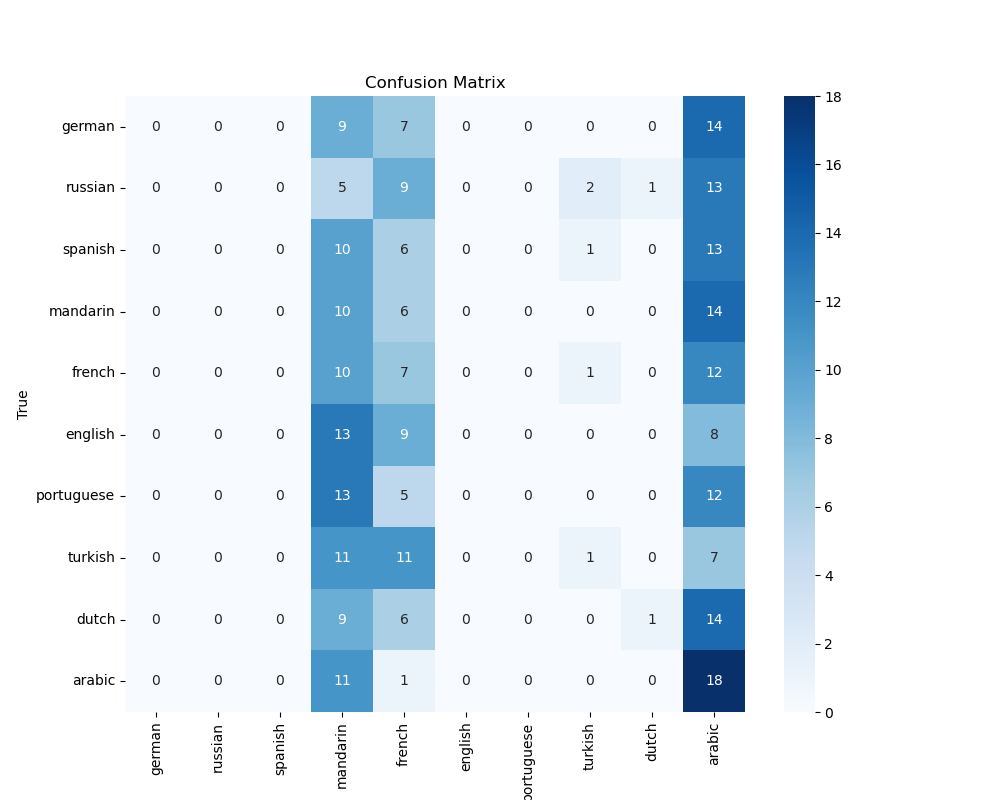
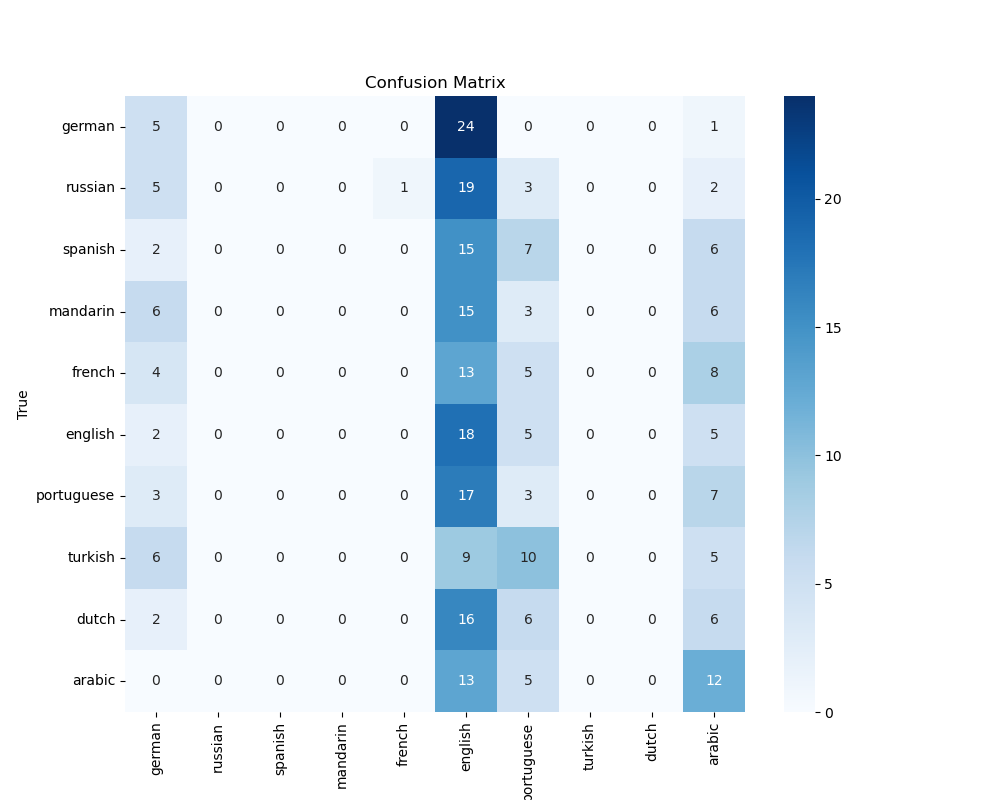
change to cnn3, making the model light

diff --git a/prepare_accent_dataset.py b/prepare_accent_dataset.py
@@ -136,71 +136,6 @@ def process_accent_dataset(accent_dataset_dir, output_dir, target_sr=16000, num_
     data = [result for result in results if result is not None]
     return pd.DataFrame(data)
 
-# def process_accent_dataset(accent_dataset_dir, output_dir, target_sr=16000):
-#     """
-#     Process a generic accent dataset with the following structure:
-#     accent_dataset_dir/
-#         accent_a1.mp3
-#         accent_a2.mp3
-#         accent_b1.mp3
-#             ...
-    
-#     Args:
-#         accent_dataset_dir: Path to accent dataset
-#         output_dir: Where to save processed files
-#         target_sr: Target sample rate
-    
-#     Returns:
-#         DataFrame with file paths and accent information
-#     """
-#     print(f"Processing accent dataset from {accent_dataset_dir}")
-    
-#     os.makedirs(output_dir, exist_ok=True)
-#     data = []
-    
-#     for audio_file in tqdm(os.listdir(accent_dataset_dir), desc="Processing input", smoothing=.05):
-#         accent = re.match(r"([a-zA-Z]+)\d+\.(?:mp3|wav|flac)", audio_file)
-#         if accent is None:
-#             continue
-
-#         accent = accent.group(1)
-#         file_name = os.path.splitext(os.path.basename(audio_file))
-
-#         try:
-#             audio_path = os.path.join(accent_dataset_dir, audio_file)
-            
-#             # Load audio
-#             waveform, sample_rate = torchaudio.load(audio_path)
-            
-#             # Convert to mono if stereo
-#             if waveform.shape[0] > 1:
-#                 waveform = torch.mean(waveform, dim=0, keepdim=True)
-            
-#             # Resample if necessary
-#             if sample_rate != target_sr:
-#                 resampler = torchaudio.transforms.Resample(sample_rate, target_sr)
-#                 waveform = resampler(waveform)
-
-#             # Clip Silence
-#             waveform = torchaudio.functional.vad(waveform, sample_rate)
-            
-#             # Save processed audio
-#             output_filename = f"{file_name[0]}.wav"
-#             output_path = os.path.join(output_dir, output_filename)
-#             torchaudio.save(output_path, waveform, target_sr)
-            
-#             # Add to data
-#             data.append({
-#                 "file_path": output_path,
-#                 "accent": accent,
-#                 "duration": waveform.shape[1] / target_sr,
-#                 "source": "dataset"
-#             })
-            
-#         except Exception as e:
-#             print(f"Error processing {audio_path}: {e}")
-
-#     return pd.DataFrame(data)
 
 def pitch_shift_resample(waveform, sample_rate, n_steps):
     """
@@ -227,133 +162,6 @@ def time_stretch_spectrogram(waveform, sample_rate, rate):
     griffin_lim = torchaudio.transforms.GriffinLim(n_fft=n_fft, hop_length=hop_length)
     return griffin_lim(stretched_spec.abs())
 
-
-def process_augmentation(sample_info, processed_dir, accent_data, max_duration=None, seed=None):
-    """
-    Process a single augmentation task.
-    
-    Args:
-        sample_info: Tuple of (sample_row, accent, count_in_accent)
-        processed_dir: Directory to save processed files
-        accent_data: DataFrame with accent information
-        max_duration: Maximum duration of audio
-        seed: Random seed
-    
-    Returns:
-        Dictionary with augmented sample information
-    """
-    if seed is not None:
-        random.seed(seed + sample_info[2])  # Use different seed for each sample
-    
-    sample, accent, count_in_accent = sample_info
-    
-    try:
-        # Load the audio file
-        waveform, sample_rate = torchaudio.load(sample["file_path"])
-        
-        # Apply augmentation
-        aug_waveform = generate_augmented_audio(waveform, sample_rate, max_duration=max_duration)
-        
-        # Save augmented audio
-        aug_filename = f"{os.path.splitext(os.path.basename(sample['file_path']))[0]}{count_in_accent}.wav"
-        aug_path = os.path.join(processed_dir, "dataset", aug_filename)
-        torchaudio.save(aug_path, aug_waveform, sample_rate)
-        
-        # Return augmented data
-        return {
-            "file_path": aug_path,
-            "accent": accent,
-            "duration": aug_waveform.shape[1] / sample_rate,
-            "source": "augmented"
-        }
-    except Exception as e:
-        print(f"Error augmenting {sample['file_path']}: {e}")
-        return None
-
-
-def augment_dataset_parallel(args, accent_data, processed_dir, valid_accents, num_workers=8):
-    """
-    Parallelize dataset augmentation.
-    
-    Args:
-        args: Arguments with augment_dataset_num, max_duration, and seed
-        accent_data: DataFrame with accent information
-        processed_dir: Directory to save processed files
-        valid_accents: List of valid accents
-        num_workers: Number of workers (defaults to CPU count)
-    
-    Returns:
-        DataFrame with augmented accent information
-    """
-    if args.augment_dataset_num == 0:
-        return pd.DataFrame()
-    
-    print("Applying data augmentation in parallel...")
-    
-    # Ensure dataset directory exists
-    os.makedirs(os.path.join(processed_dir, "dataset"), exist_ok=True)
-    
-    # Set up multiprocessing
-    num_workers = max(min(num_workers, mp.cpu_count()), 1)
-    
-    # Get accent counts after filtering
-    accent_counts = accent_data["accent"].value_counts()
-    max_count = accent_counts.max()
-    
-    # Prepare augmentation tasks
-    all_augmentation_tasks = []
-    
-    for accent in valid_accents:
-        accent_samples = accent_data[accent_data["accent"] == accent]
-        current_count = len(accent_samples)
-        
-        if current_count >= max_count:
-            continue
-            
-        # Calculate how many augmentations we need
-        num_to_augment = min(args.augment_dataset_num, max_count - current_count)
-        
-        # Randomly select samples to augment (with replacement if needed)
-        samples_to_augment = accent_samples.sample(
-            n=min(num_to_augment, current_count), 
-            replace=(num_to_augment > current_count),
-            random_state=args.seed
-        )
-        
-        # Track the current count for each accent to generate unique filenames
-        for i, (_, sample) in enumerate(samples_to_augment.iterrows()):
-            # Add a tuple of (sample, accent, count_in_accent)
-            count_in_accent = i + 1
-            all_augmentation_tasks.append((sample, accent, count_in_accent))
-    
-    if not all_augmentation_tasks:
-        print("No augmentation tasks to perform.")
-        return pd.DataFrame()
-        
-    # Create partial function for multiprocessing
-    process_func = partial(
-        process_augmentation,
-        processed_dir=processed_dir,
-        accent_data=accent_data,
-        max_duration=args.max_duration,
-        seed=args.seed
-    )
-    
-    # Process augmentations in parallel
-    print(f"Processing {len(all_augmentation_tasks)} augmentations using {num_workers} workers")
-    
-    with mp.Pool(processes=num_workers) as pool:
-        results = list(tqdm(
-            pool.imap(process_func, all_augmentation_tasks),
-            total=len(all_augmentation_tasks),
-            desc="Augmenting audio"
-        ))
-    
-    # Filter out None results and create DataFrame
-    augmented_data = [result for result in results if result is not None]
-    print(f"Created {len(augmented_data)} augmented samples")
-    
-    return pd.DataFrame(augmented_data)
 
 def generate_augmented_audio(waveform, sample_rate, max_duration=None):
     """
@@ -471,10 +279,6 @@ def create_dataset(args):
         args.num_workers
     )
 
-    # Combine data
-        
-    # accent_data = pd.concat(all_data, ignore_index=True)
-    
     # Filter by duration
     if args.min_duration > 0:
         accent_data = accent_data[accent_data["duration"] >= args.min_duration]
@@ -493,20 +297,6 @@ def create_dataset(args):
     
     accent_data = accent_data[accent_data["accent"].isin(valid_accents)]
     accent_data = accent_data.sort_values(by='file_path').reset_index(drop=True)
-
-    # if args.augment_dataset_num != 0:
-    #     augmented_df = augment_dataset_parallel(
-    #         args, 
-    #         accent_data, 
-    #         processed_dir, 
-    #         valid_accents,
-    #         args.num_workers
-    #     )
-        
-    #     # Add augmented data to the main dataset if we have any
-    #     if not augmented_df.empty:
-    #         accent_data = pd.concat([accent_data, augmented_df], ignore_index=True)
-    #         print(f"Added {len(augmented_df)} augmented samples")    # Augment data
 
     if args.augment_dataset_num != 0:
         print("Applying data augmentation...")
@@ -542,33 +332,7 @@ def create_dataset(args):
                     "source": os.path.basename(sample["file_path"])
                 })
                 
-            # # Calculate how many augmentations we need
-            # num_to_augment = min(args.augment_dataset_num, max_count - current_count)
-            
-            # # Randomly select samples to augment
-            # samples_to_augment = accent_samples.sample(n=min(num_to_augment, current_count), random_state=args.seed)
-            
-            # for _, sample in tqdm(samples_to_augment.iterrows(), total=len(samples_to_augment), desc=f"Augmenting {accent}", leave=False):
-            #     # Load the audio file
-            #     waveform, sample_rate = torchaudio.load(sample["file_path"])
-                
-            #     # Apply augmentation
-            #     aug_waveform = generate_augmented_audio(waveform, sample_rate, max_duration=args.max_duration)
-                
-            #     # Save augmented audio
-            #     curr_accent_count = accent_data[accent_data["accent"] == accent].size
-            #     aug_filename = f"{os.path.splitext(os.path.basename(sample['file_path']))[0]}{curr_accent_count + 1}.wav"
-            #     aug_path = os.path.join(processed_dir, "dataset", aug_filename)
-            #     torchaudio.save(aug_path, aug_waveform, sample_rate)
-                
-            #     # Add to augmented data
-            #     augmented_data.append({
-            #         "file_path": aug_path,
-            #         "accent": accent,
-            #         "duration": aug_waveform.shape[1] / sample_rate,
-            #         "source": "augmented"
-            #     })
-        
+
         # Add augmented data to the main dataset
         if augmented_data:
             accent_data = pd.concat([accent_data, pd.DataFrame(augmented_data)], ignore_index=True)
@@ -577,7 +341,7 @@ def create_dataset(args):
     if args.oversample != 0:
         accent_counts = accent_data["accent"].value_counts()
 
-        for accent in tqdm(valid_accents, desc="Accents"):
+        for accent in tqdm(valid_accents, desc="Oversampling Accents"):
             accent_samples = accent_data[accent_data["accent"] == accent]
             current_count = len(accent_samples)
 

diff --git a/cnn3.py b/cnn3.py
@@ -56,7 +56,8 @@ class Config:
     # Training parameters
     epochs = 50  # Increased from 10
     batch_size = 16  # Increased from 16
-    learning_rate = 0.0005  # More specific learning rate
+    # learning_rate = 0.0005  # More specific learning rate
+    learning_rate = 0.001  # More specific learning rate
     weight_decay = 1e-5  # Added weight decay for regularization
 
     # Early stopping parameters
@@ -256,20 +257,25 @@ class SimplerAccentCNN(nn.Module):
         self.bn1 = nn.BatchNorm2d(32)
         self.pool1 = nn.MaxPool2d(2)
 
-        self.conv2 = nn.Conv2d(32, 64, kernel_size=3, padding=1)
-        self.bn2 = nn.BatchNorm2d(64)
-        self.pool2 = nn.MaxPool2d(2)
+        # self.conv2 = nn.Conv2d(32, 64, kernel_size=3, padding=1)
+        # self.bn2 = nn.BatchNorm2d(64)
+        # self.pool2 = nn.MaxPool2d(2)
 
-        self.conv3 = nn.Conv2d(64, 128, kernel_size=3, padding=1)
-        self.bn3 = nn.BatchNorm2d(128)
-        self.pool3 = nn.MaxPool2d(2)
+        # self.conv3 = nn.Conv2d(64, 128, kernel_size=3, padding=1)
+        # self.bn3 = nn.BatchNorm2d(128)
+        # self.pool3 = nn.MaxPool2d(2)
 
         # Global average pooling
         self.gap = nn.AdaptiveAvgPool2d(1)
 
         # Classification head
         self.classifier = nn.Sequential(
-            nn.Linear(128, 64), nn.ReLU(), nn.Dropout(0.3), nn.Linear(64, num_classes)
+            # nn.Linear(128, 64),
+            nn.ReLU(),
+            nn.ReLU(),
+            nn.Dropout(0.3),
+            # nn.Linear(64, num_classes)
+            nn.Linear(32, num_classes)
         )
 
         # NEW, DELETE IF BREAK

diff --git a/shared.py b/shared.py
@@ -2,7 +2,7 @@ import os
 import pandas as pd
 
 # dataset_path = "./out-min-n-20-max-t-30-clean/"
-dataset_path = "./out-min-n-30-max-t-30-augmented"
+dataset_path = "./out-min-n-30-max-t-30-augmented/"
 df = pd.read_csv(os.path.join(dataset_path, "accent_data.csv"))
 # max_duration = df["duration"].max()
 accent_mapping = {k:v for (v, k) in enumerate(df["accent"].unique())}
